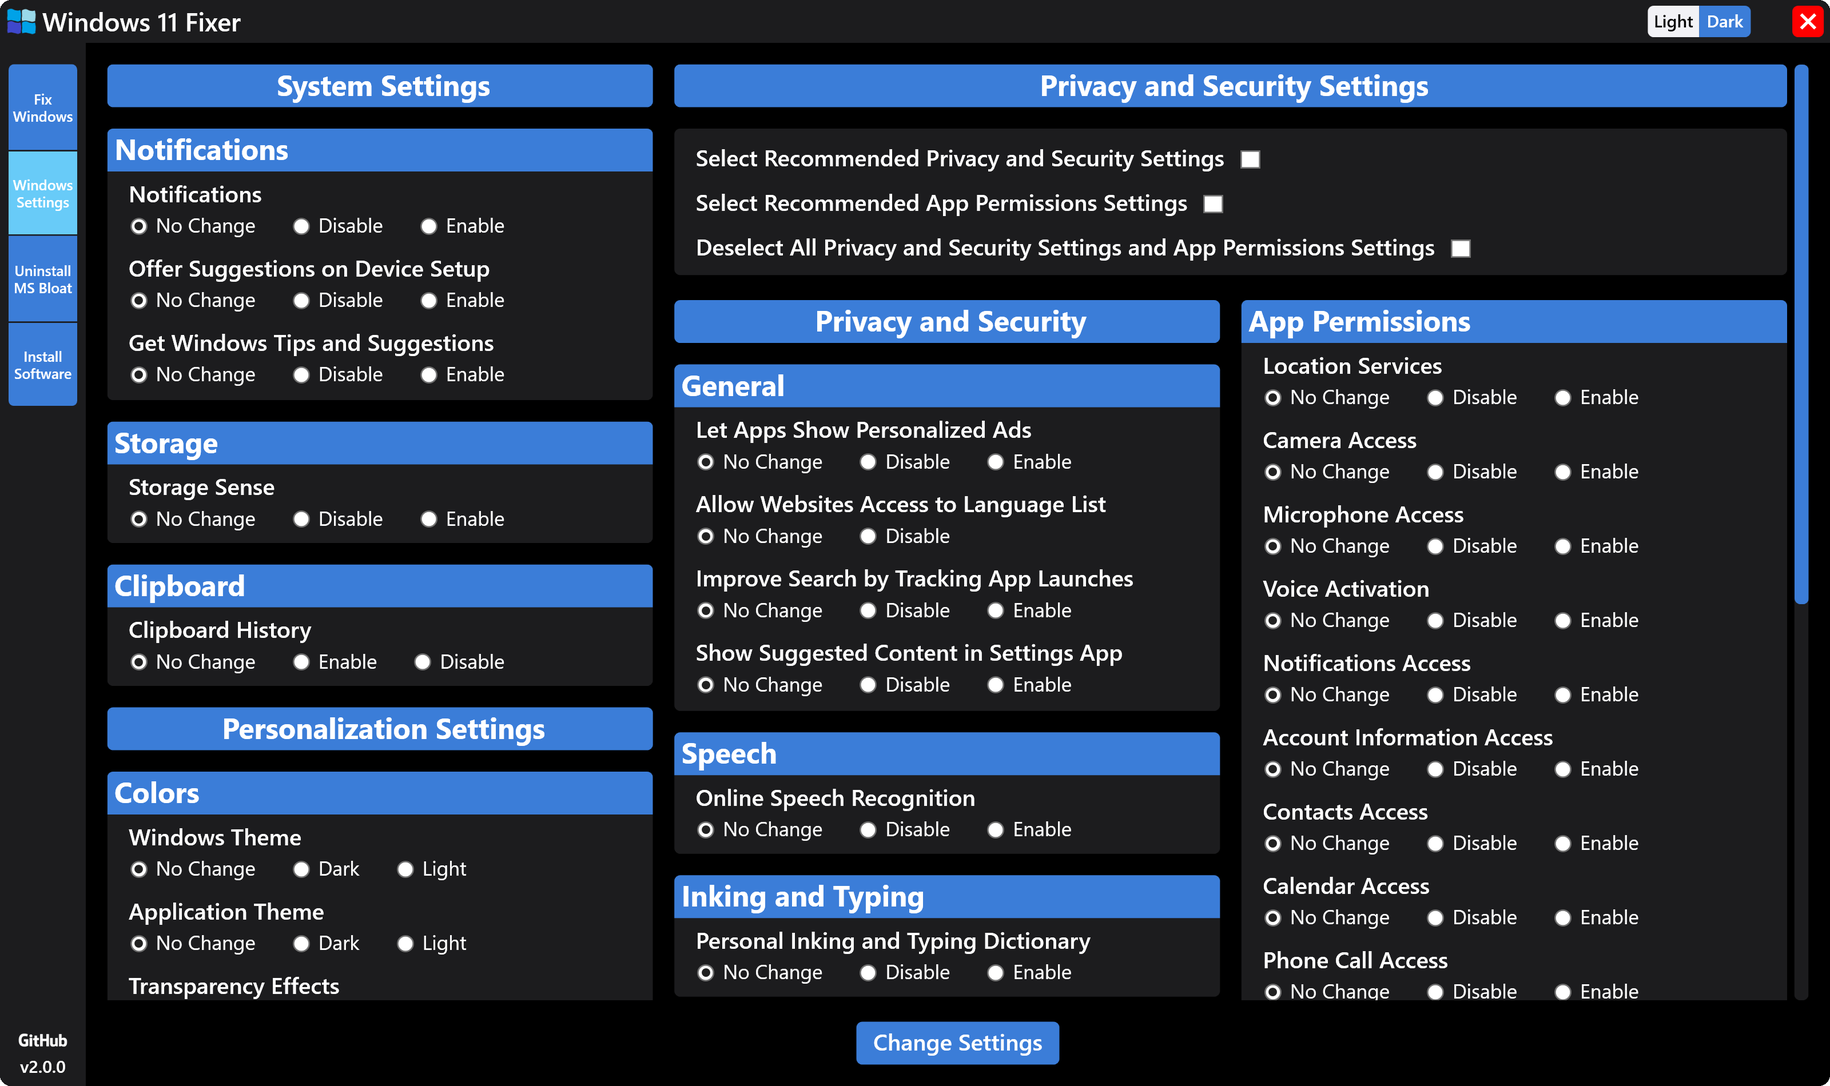
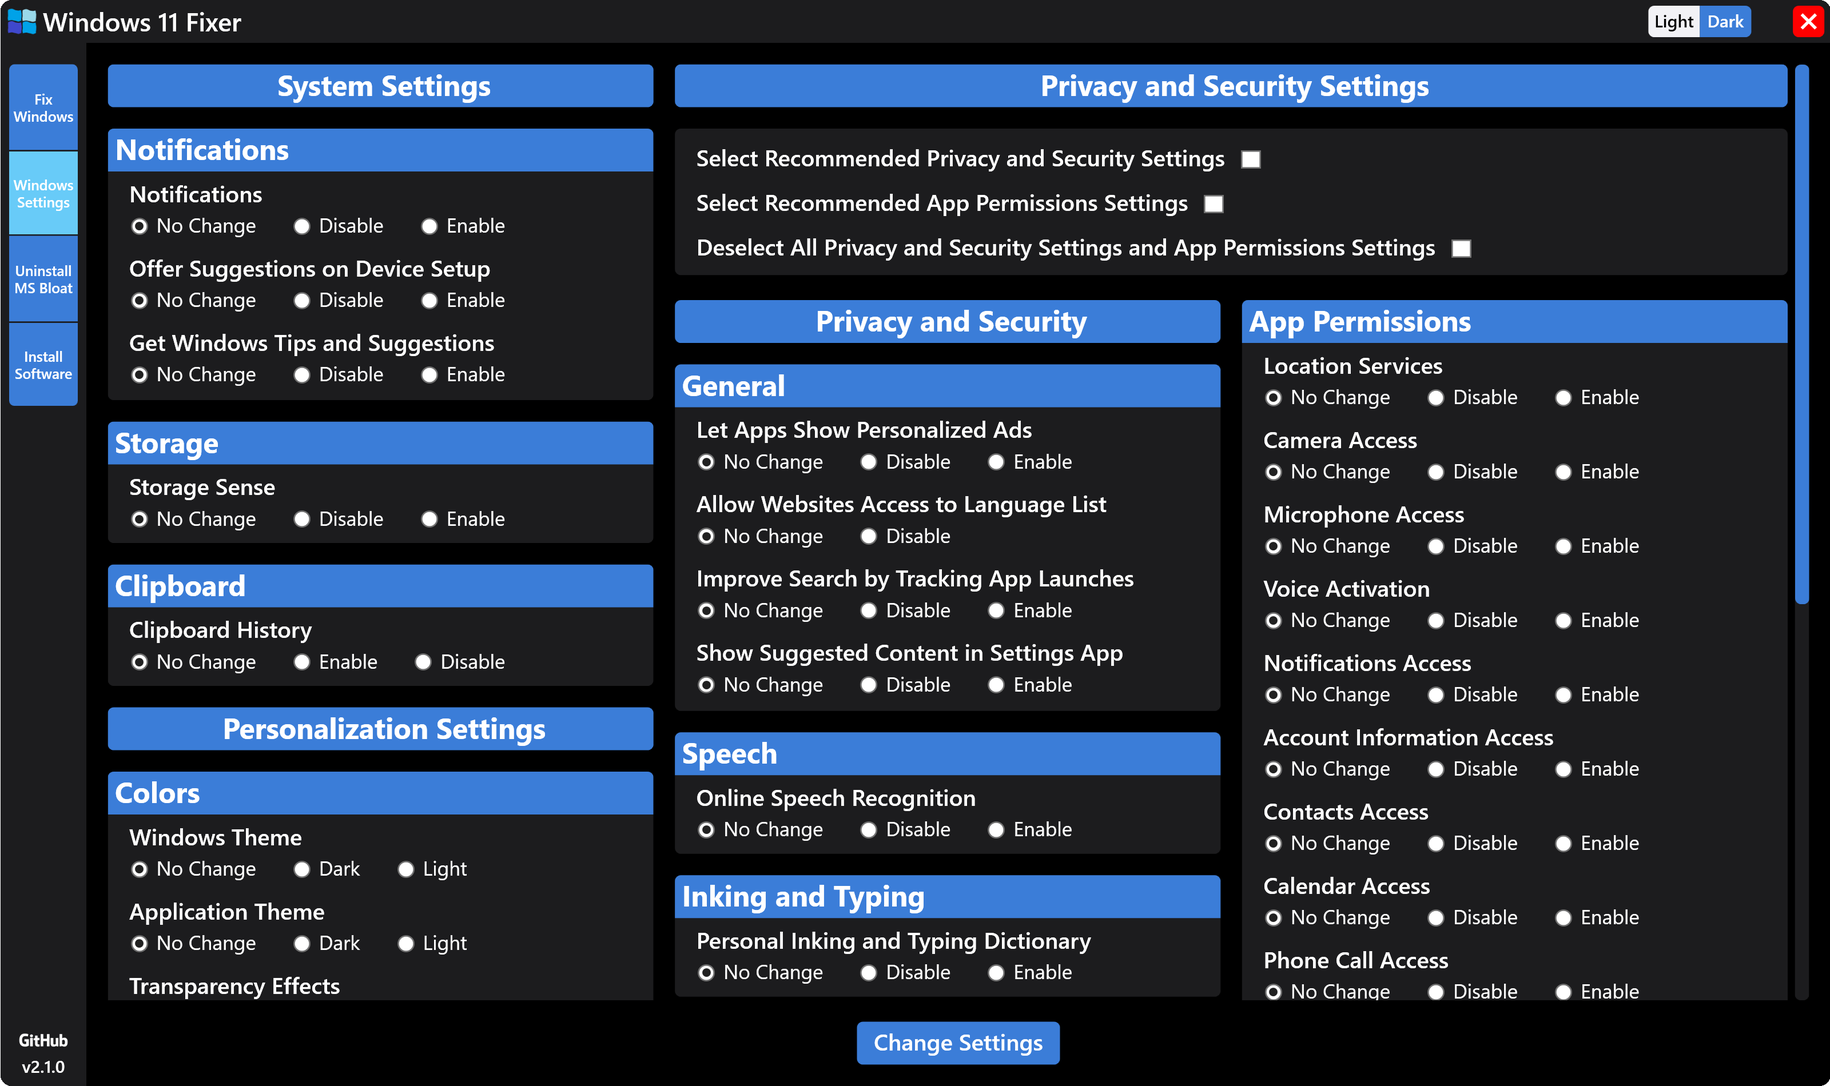
Updated to v2.1.0

diff --git a/Windows 11 Fixer/MVVM/View/InstallView.xaml b/Windows 11 Fixer/MVVM/View/InstallView.xaml
@@ -26,7 +26,7 @@
                     <StackPanel Grid.Column="0" Orientation="Vertical">
                         <StackPanel Orientation="Vertical">
                             <StackPanel Orientation="Vertical">
-                                <Border Width="381.67" Height="655"
+                                <Border Width="381.67" Height="765"
                                         Background="{DynamicResource Color2}"
                                         HorizontalAlignment="Left"
                                         VerticalAlignment="Top"
@@ -236,6 +236,44 @@
                     <Hyperlink NavigateUri="https://modernflyouts-community.github.io/"
                                 RequestNavigate="Hyperlink_RequestNavigate">
                         Learn more about ModernFlyouts
+                    </Hyperlink>
+                                        </TextBlock>
+
+                                        <TextBlock Text="Files"
+                                    HorizontalAlignment="Left"
+                                    VerticalAlignment="Top"
+                                    Margin="15,12,0,0"
+                                    Foreground="{DynamicResource TextColor1}"
+                                    FontFamily="Fonts/#Sans"
+                                    FontWeight="Medium"
+                                    FontSize="16"/>
+                                        <StackPanel Orientation="Horizontal">
+                                            <RadioButton Content="Don't Install"
+                                            Name="Files_DI"
+                                            GroupName="Files"
+                                            IsChecked="True"
+                                            HorizontalAlignment="Left"
+                                            VerticalAlignment="Top"
+                                            Margin="15,5,0,0"
+                                            Foreground="{DynamicResource TextColor1}"
+                                            FontFamily="Fonts/#Sans"
+                                            FontSize="14"/>
+                                            <RadioButton Content="Install"
+                                            Name="Files_Install"
+                                            GroupName="Files"
+                                            Margin="25,5,0,0"
+                                            Foreground="{DynamicResource TextColor1}"
+                                            FontFamily="Fonts/#Sans"
+                                            FontSize="14"/>
+                                        </StackPanel>
+
+                                        <TextBlock Margin="15,5,15,0" TextWrapping="Wrap" Foreground="{DynamicResource TextColor1}">
+                                            Files provides an alternative file manager for Windows, providing additional features like multiple tabs.
+                                        </TextBlock>
+                                        <TextBlock Margin="15,2,0,0">
+                    <Hyperlink NavigateUri="https://github.com/files-community/Files"
+                                RequestNavigate="Hyperlink_RequestNavigate">
+                        Learn more about Files
                     </Hyperlink>
                                         </TextBlock>
 
@@ -550,7 +588,7 @@
                     <StackPanel Grid.Column="2" Orientation="Vertical">
                         <StackPanel Orientation="Vertical">
                             <StackPanel Orientation="Vertical">
-                                <Border Width="381.66" Height="190"
+                                <Border Width="381.66" Height="295"
                         Background="{DynamicResource Color2}"
                         HorizontalAlignment="Left"
                         VerticalAlignment="Top"
@@ -650,6 +688,60 @@
                                             <RadioButton Content="Install"
                                             Name="Opera_Install"
                                             GroupName="Opera"
+                                            Margin="25,5,0,0"
+                                            Foreground="{DynamicResource TextColor1}"
+                                            FontFamily="Fonts/#Sans"
+                                            FontSize="14"/>
+                                        </StackPanel>
+                                        <TextBlock Text="Brave"
+                                    HorizontalAlignment="Left"
+                                    VerticalAlignment="Top"
+                                    Margin="15,12,0,0"
+                                    Foreground="{DynamicResource TextColor1}"
+                                    FontFamily="Fonts/#Sans"
+                                    FontWeight="Medium"
+                                    FontSize="16"/>
+                                        <StackPanel Orientation="Horizontal">
+                                            <RadioButton Content="Don't Install"
+                                            Name="Brave_DI"
+                                            GroupName="Brave"
+                                            IsChecked="True"
+                                            HorizontalAlignment="Left"
+                                            VerticalAlignment="Top"
+                                            Margin="15,5,0,0"
+                                            Foreground="{DynamicResource TextColor1}"
+                                            FontFamily="Fonts/#Sans"
+                                            FontSize="14"/>
+                                            <RadioButton Content="Install"
+                                            Name="Brave_Install"
+                                            GroupName="Brave"
+                                            Margin="25,5,0,0"
+                                            Foreground="{DynamicResource TextColor1}"
+                                            FontFamily="Fonts/#Sans"
+                                            FontSize="14"/>
+                                        </StackPanel>
+                                        <TextBlock Text="Vivaldi"
+                                    HorizontalAlignment="Left"
+                                    VerticalAlignment="Top"
+                                    Margin="15,12,0,0"
+                                    Foreground="{DynamicResource TextColor1}"
+                                    FontFamily="Fonts/#Sans"
+                                    FontWeight="Medium"
+                                    FontSize="16"/>
+                                        <StackPanel Orientation="Horizontal">
+                                            <RadioButton Content="Don't Install"
+                                            Name="Vivaldi_DI"
+                                            GroupName="Vivaldi"
+                                            IsChecked="True"
+                                            HorizontalAlignment="Left"
+                                            VerticalAlignment="Top"
+                                            Margin="15,5,0,0"
+                                            Foreground="{DynamicResource TextColor1}"
+                                            FontFamily="Fonts/#Sans"
+                                            FontSize="14"/>
+                                            <RadioButton Content="Install"
+                                            Name="Vivaldi_Install"
+                                            GroupName="Vivaldi"
                                             Margin="25,5,0,0"
                                             Foreground="{DynamicResource TextColor1}"
                                             FontFamily="Fonts/#Sans"
@@ -979,7 +1071,7 @@
                                         </StackPanel>
                                     </StackPanel>
                                 </Border>
-                                <Border Width="381.66" Height="250"
+                                <Border Width="381.66" Height="255"
                         Background="{DynamicResource Color2}"
                         HorizontalAlignment="Left"
                         VerticalAlignment="Top"
@@ -1468,7 +1560,7 @@
                                         </StackPanel>
                                     </StackPanel>
                                 </Border>
-                                <Border Width="381.67" Height="197"
+                                <Border Width="381.67" Height="242.5"
                         Background="{DynamicResource Color2}"
                         HorizontalAlignment="Left"
                         VerticalAlignment="Top"
@@ -1573,9 +1665,36 @@
                                             FontFamily="Fonts/#Sans"
                                             FontSize="14"/>
                                         </StackPanel>
+                                        <TextBlock Text="IrfanView"
+                                    HorizontalAlignment="Left"
+                                    VerticalAlignment="Top"
+                                    Margin="15,12,0,0"
+                                    Foreground="{DynamicResource TextColor1}"
+                                    FontFamily="Fonts/#Sans"
+                                    FontWeight="Medium"
+                                    FontSize="16"/>
+                                        <StackPanel Orientation="Horizontal">
+                                            <RadioButton Content="Don't Install"
+                                            Name="IrfanView_DI"
+                                            GroupName="IrfanView"
+                                            IsChecked="True"
+                                            HorizontalAlignment="Left"
+                                            VerticalAlignment="Top"
+                                            Margin="15,5,0,0"
+                                            Foreground="{DynamicResource TextColor1}"
+                                            FontFamily="Fonts/#Sans"
+                                            FontSize="14"/>
+                                            <RadioButton Content="Install"
+                                            Name="IrfanView_Install"
+                                            GroupName="IrfanView"
+                                            Margin="25,5,0,0"
+                                            Foreground="{DynamicResource TextColor1}"
+                                            FontFamily="Fonts/#Sans"
+                                            FontSize="14"/>
+                                        </StackPanel>
                                     </StackPanel>
                                 </Border>
-                                <Border Width="381.66" Height="195"
+                                <Border Width="381.66" Height="259.5"
                         Background="{DynamicResource Color2}"
                         HorizontalAlignment="Left"
                         VerticalAlignment="Top"
@@ -1626,6 +1745,34 @@
                                             FontSize="14"/>
                                         </StackPanel>
 
+                                        <TextBlock Text="7-Zip"
+                                    HorizontalAlignment="Left"
+                                    VerticalAlignment="Top"
+                                    Margin="15,12,0,0"
+                                    Foreground="{DynamicResource TextColor1}"
+                                    FontFamily="Fonts/#Sans"
+                                    FontWeight="Medium"
+                                    FontSize="16"/>
+                                        <StackPanel Orientation="Horizontal">
+                                            <RadioButton Content="Don't Install"
+                                            Name="SevenZip_DI"
+                                            GroupName="SevenZip"
+                                            IsChecked="True"
+                                            HorizontalAlignment="Left"
+                                            VerticalAlignment="Top"
+                                            Margin="15,5,0,0"
+                                            Foreground="{DynamicResource TextColor1}"
+                                            FontFamily="Fonts/#Sans"
+                                            FontSize="14"/>
+                                            <RadioButton Content="Install"
+                                            Name="SevenZip_Install"
+                                            GroupName="SevenZip"
+                                            Margin="25,5,0,0"
+                                            Foreground="{DynamicResource TextColor1}"
+                                            FontFamily="Fonts/#Sans"
+                                            FontSize="14"/>
+                                        </StackPanel>
+                                        
                                         <TextBlock Text="qBittorrent"
                                     HorizontalAlignment="Left"
                                     VerticalAlignment="Top"

diff --git a/Windows 11 Fixer/Windows 11 Fixer.xaml b/Windows 11 Fixer/Windows 11 Fixer.xaml
@@ -383,7 +383,7 @@
                                             Click="Button_Click_4"                                     
                                             Style="{DynamicResource ImageButton}">
                                     </Button>
-                                    <TextBlock Text="v2.0.0"
+                                    <TextBlock Text="v2.1.0"
                                                Foreground="{DynamicResource TextColor1}"
                                                VerticalAlignment="Center"
                                                HorizontalAlignment="Center"

diff --git a/Windows 11 Fixer/MVVM/View/InstallView.xaml.cs b/Windows 11 Fixer/MVVM/View/InstallView.xaml.cs
@@ -38,7 +38,7 @@ namespace Windows_11_Fixer.MVVM.View
         private void Button_Click(object sender, RoutedEventArgs e)
         {
             int numInstalls = 0;
-            string[] programID = new string[46];
+            string[] programID = new string[51];
 
             //Windows Modification Software
             if (StartAllBack_Install.IsChecked == true)
@@ -69,6 +69,12 @@ namespace Windows_11_Fixer.MVVM.View
             {
                 numInstalls = numInstalls + 1;
                 programID[numInstalls] = "ModernFlyouts.ModernFlyouts";
+            }
+
+            if (Files_Install.IsChecked == true)
+            {
+                numInstalls = numInstalls + 1;
+                programID[numInstalls] = "9nghp3dx8hdx";
             }
 
             if (PowerToys_Install.IsChecked == true)
@@ -145,6 +151,18 @@ namespace Windows_11_Fixer.MVVM.View
             {
                 numInstalls = numInstalls + 1;
                 programID[numInstalls] = "Opera.Opera";
+            }
+
+            if (Brave_Install.IsChecked == true)
+            {
+                numInstalls = numInstalls + 1;
+                programID[numInstalls] = "BraveSoftware.BraveBrowser";
+            }
+
+            if (Vivaldi_Install.IsChecked == true)
+            {
+                numInstalls = numInstalls + 1;
+                programID[numInstalls] = "VivaldiTechnologies.Vivaldi";
             }
 
 
@@ -323,12 +341,24 @@ namespace Windows_11_Fixer.MVVM.View
                 programID[numInstalls] = "Inkscape.Inkscape";
             }
 
+            if (IrfanView_Install.IsChecked == true)
+            {
+                numInstalls = numInstalls + 1;
+                programID[numInstalls] = "IrfanSkiljan.IrfanView";
+            }
+
 
             //Other
             if (WinRAR_Install.IsChecked == true)
             {
                 numInstalls = numInstalls + 1;
                 programID[numInstalls] = "RARLab.WinRAR";
+            }
+
+            if (SevenZip_Install.IsChecked == true)
+            {
+                numInstalls = numInstalls + 1;
+                programID[numInstalls] = "7zip.7zip";
             }
 
             if (qBittorrent_Install.IsChecked == true)
@@ -352,6 +382,7 @@ namespace Windows_11_Fixer.MVVM.View
             Fences4_DI.IsChecked = true;
             ElevenClock_DI.IsChecked = true;
             ModernFlyouts_DI.IsChecked = true;
+            Files_DI.IsChecked = true;
             PowerToys_DI.IsChecked = true;
             Malwarebytes_DI.IsChecked = true;
             CCleaner_DI.IsChecked = true;
@@ -364,6 +395,8 @@ namespace Windows_11_Fixer.MVVM.View
             Firefox_DI.IsChecked = true;
             Chrome_DI.IsChecked = true;
             Opera_DI.IsChecked = true;
+            Brave_DI.IsChecked = true;
+            Vivaldi_DI.IsChecked = true;
             Spotify_DI.IsChecked = true;
             AmazonMusic_DI.IsChecked = true;
             iTunes_DI.IsChecked = true;
@@ -391,7 +424,9 @@ namespace Windows_11_Fixer.MVVM.View
             GIMP_DI.IsChecked = true;
             Blender_DI.IsChecked = true;
             Inkscape_DI.IsChecked = true;
+            IrfanView_DI.IsChecked = true;
             WinRAR_DI.IsChecked = true;
+            SevenZip_DI.IsChecked = true;
             qBittorrent_DI.IsChecked = true;
         }
     }

diff --git a/Windows 11 Fixer/MVVM/View/MainView.xaml.cs b/Windows 11 Fixer/MVVM/View/MainView.xaml.cs
@@ -203,10 +203,34 @@ namespace Windows_11_Fixer.MVVM.View
             {
                 Registry.SetValue("HKEY_CLASSES_ROOT\\DesktopBackground\\Shell\\Toggle Camera/Microphone", "Icon", "%windir%\\W11F-assets\\icons\\webcam.ico");
                 Registry.SetValue("HKEY_CLASSES_ROOT\\DesktopBackground\\Shell\\Toggle Camera/Microphone", "SubCommands", "");
-                Registry.SetValue("HKEY_CLASSES_ROOT\\DesktopBackground\\Shell\\Toggle Camera/Microphone\\Shell\\menu1", "MUIVerb", "Toggle Camera");
+
+                object CStatus = Registry.LocalMachine.OpenSubKey(@"Software\\Microsoft\\Windows\\CurrentVersion\\CapabilityAccessManager\\ConsentStore\\webcam").GetValue("Value");
+                string CameraStatus = CStatus.ToString();
+
+                if (CameraStatus == "Allow")
+                {
+                    Registry.SetValue("HKEY_CLASSES_ROOT\\DesktopBackground\\Shell\\Toggle Camera/Microphone\\Shell\\menu1", "MUIVerb", "Toggle Camera Off");
+                }
+                if (CameraStatus == "Deny")
+                {
+                    Registry.SetValue("HKEY_CLASSES_ROOT\\DesktopBackground\\Shell\\Toggle Camera/Microphone\\Shell\\menu1", "MUIVerb", "Toggle Camera On");
+                }
+
                 Registry.SetValue("HKEY_CLASSES_ROOT\\DesktopBackground\\Shell\\Toggle Camera/Microphone\\Shell\\menu1", "Icon", "%windir%\\W11F-assets\\icons\\cam.ico");
                 Registry.SetValue("HKEY_CLASSES_ROOT\\DesktopBackground\\Shell\\Toggle Camera/Microphone\\Shell\\menu1\\command", "", "C:\\WINDOWS\\W11F-assets\\scripts\\RunToggleCamAsAdmin.bat");
-                Registry.SetValue("HKEY_CLASSES_ROOT\\DesktopBackground\\Shell\\Toggle Camera/Microphone\\Shell\\menu2", "MUIVerb", "Toggle Microphone");
+
+                object MStatus = Registry.LocalMachine.OpenSubKey(@"Software\\Microsoft\\Windows\\CurrentVersion\\CapabilityAccessManager\\ConsentStore\\microphone").GetValue("Value");
+                string MicStatus = MStatus.ToString();
+
+                if (MicStatus == "Allow")
+                {
+                    Registry.SetValue("HKEY_CLASSES_ROOT\\DesktopBackground\\Shell\\Toggle Camera/Microphone\\Shell\\menu2", "MUIVerb", "Toggle Microphone Off");
+                }
+                if (MicStatus == "Deny")
+                {
+                    Registry.SetValue("HKEY_CLASSES_ROOT\\DesktopBackground\\Shell\\Toggle Camera/Microphone\\Shell\\menu2", "MUIVerb", "Toggle Microphone On");
+                }
+
                 Registry.SetValue("HKEY_CLASSES_ROOT\\DesktopBackground\\Shell\\Toggle Camera/Microphone\\Shell\\menu2", "Icon", "%windir%\\W11F-assets\\icons\\mic.ico");
                 Registry.SetValue("HKEY_CLASSES_ROOT\\DesktopBackground\\Shell\\Toggle Camera/Microphone\\Shell\\menu2\\command", "", "C:\\WINDOWS\\W11F-assets\\scripts\\RunToggleMicAsAdmin.bat");
             }

diff --git a/Windows 11 Fixer/Windows 11 Fixer.xaml.cs b/Windows 11 Fixer/Windows 11 Fixer.xaml.cs
@@ -26,7 +26,26 @@ namespace Windows_11_Fixer
         public MainWindow()
         {
             InitializeComponent();
-            App.Current.Properties["isLight"] = "yes";
+
+            object AppThemeReg = Registry.CurrentUser.OpenSubKey(@"SOFTWARE\\Microsoft\\Windows\\CurrentVersion\\Themes\\Personalize").GetValue("AppsUseLightTheme");
+            string AppTheme = AppThemeReg.ToString();
+
+            if (AppTheme == "1")
+            {
+                App.Current.Properties["isLight"] = "yes";
+                ResourceDictionary newRes = new ResourceDictionary();
+                newRes.Source = new Uri("pack://application:,,,/Windows 11 Fixer;component/Dictionaries/LightTheme.xaml", UriKind.Absolute);
+                this.Resources.MergedDictionaries.Clear();
+                this.Resources.MergedDictionaries.Add(newRes);
+            }
+            if (AppTheme == "0")
+            {
+                App.Current.Properties["isLight"] = "no";
+                ResourceDictionary newRes = new ResourceDictionary();
+                newRes.Source = new Uri("pack://application:,,,/Windows 11 Fixer;component/Dictionaries/DarkTheme.xaml", UriKind.Absolute);
+                this.Resources.MergedDictionaries.Clear();
+                this.Resources.MergedDictionaries.Add(newRes);
+            }
         }
 
         private void Border_MouseDown(object sender, MouseButtonEventArgs e)
